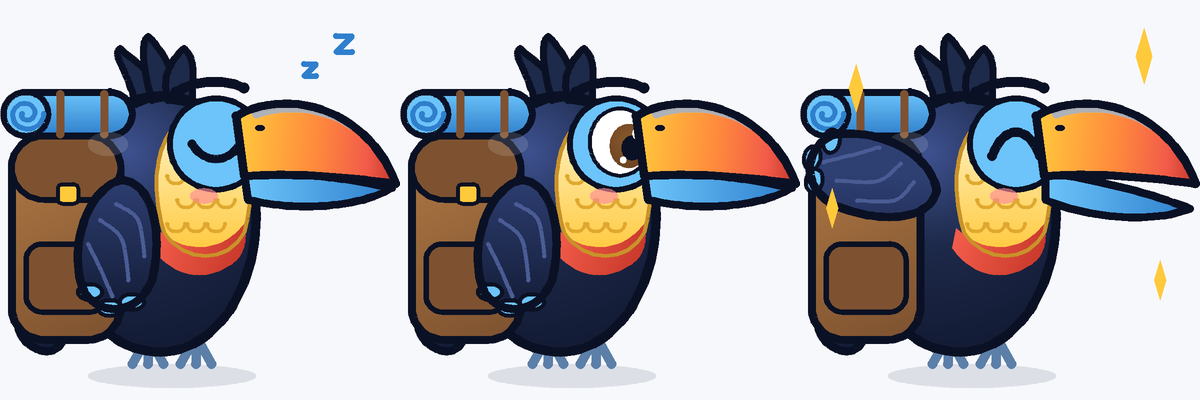
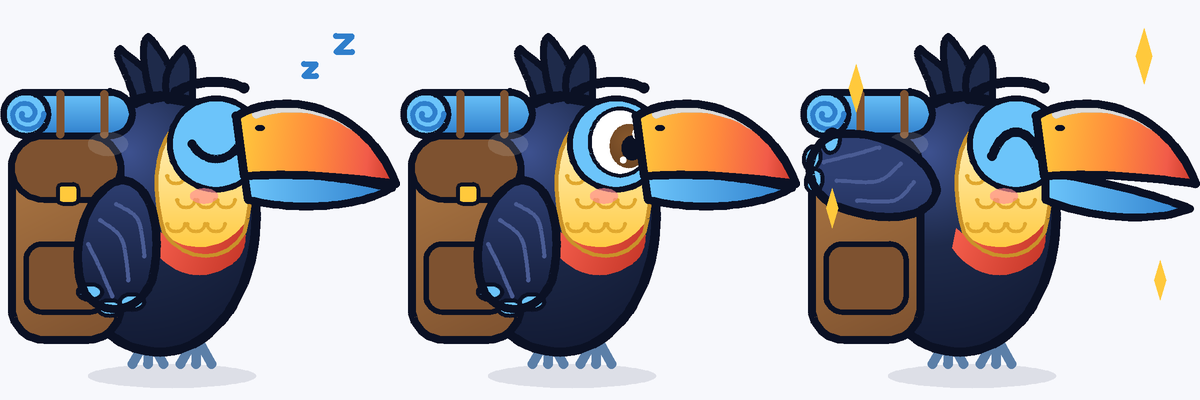
Source info sheets; hide Pico's tail behind the backpack
Tapping a source in onboarding or Settings opens a sheet saying what it
is, where to find it, what it costs and how Rumbo uses it (the tick or
switch still turns it on and off). Pico's tail no longer pokes out under
the travel pack.

Claude-Session: https://claude.ai/code/session_018UvJM2Go7pAH1fbyANkHrp

diff --git a/Rumbo/Features/Onboarding/SourceInfoSheet.swift b/Rumbo/Features/Onboarding/SourceInfoSheet.swift
@@ -1,0 +1,116 @@
+import RumboCore
+import SwiftUI
+
+extension SourceKind: @retroactive Identifiable {
+    public var id: String { rawValue }
+}
+
+/// What each source is, for someone who hasn't heard of it: what it is, where to find it, what it costs and
+/// how Rumbo uses it. Opened by tapping a source in onboarding or Settings → Sources.
+struct SourceInfoSheet: View {
+    let source: SourceKind
+
+    private struct Info {
+        let what: String
+        let whereToFind: String
+        let cost: String
+        let inRumbo: String
+        let links: [(title: String, url: URL)]
+    }
+
+    private var info: Info {
+        switch source {
+        case .dreamingSpanish:
+            Info(what: "A video library of Spanish made to be understood: thousands of videos where native speakers explain, chat and tell stories, using pictures and gestures at the easy levels. Every video has a difficulty from 0 to 100, and it counts your hours of listening. It's built on comprehensible input: you pick up Spanish by understanding lots of it.",
+                 whereToFind: "The Dreaming Spanish app (iPhone, Android, TV) and dreaming.com.",
+                 cost: "Many videos are free on YouTube; a subscription unlocks the full library and progress tracking.",
+                 inRumbo: "Your main listening: Rumbo plans videos at your difficulty range (e.g. 40–45), sometimes easier ones for fluency, asks what level you watched and charts it on Progress. Its hours count toward your level.",
+                 links: [("Open dreaming.com", URL(string: "https://www.dreaming.com/spanish")!)])
+        case .languageTransfer:
+            Info(what: "\"Complete Spanish\": a free audio course of 90 short tracks. A teacher guides a student to build sentences by thinking, not memorising, and you answer out loud before the student does. It gives you the skeleton of Spanish grammar from A2 to early B1.",
+                 whereToFind: "The free Language Transfer app (iPhone and Android) or languagetransfer.org.",
+                 cost: "Free (it's run on donations).",
+                 inRumbo: "Grammar & vocab: Rumbo plans the next track at its real length and asks which track you're up to when you log it.",
+                 links: [("Open languagetransfer.org", URL(string: "https://www.languagetransfer.org")!)])
+        case .extraEnEspanol:
+            Info(what: "A sitcom made for Spanish learners: 13 episodes about flatmates in Spain and an American friend who arrives knowing little Spanish. The speech is clear and slow at first, and it's funny.",
+                 whereToFind: "Free on YouTube: search \"Extra en Español\".",
+                 cost: "Free.",
+                 inRumbo: "Listening with subtitles: at A2 it's planned half an episode at a time, watched with Spanish subtitles, then a short scene to shadow (speak along with the actors). At B1, whole episodes for enjoyment.",
+                 links: [("Search on YouTube", URL(string: "https://www.youtube.com/results?search_query=Extra%20en%20Espa%C3%B1ol")!)])
+        case .duolingo:
+            Info(what: "The green-owl app of short, game-like lessons and a daily streak.",
+                 whereToFind: "The Duolingo app (iPhone and Android) and duolingo.com.",
+                 cost: "Free with ads; Super is optional.",
+                 inRumbo: "A short daily warm-up (about 3 minutes, never more than 5), mainly to keep your Duolingo streak alive. Rumbo keeps track of your section and unit. It fades out at B2. You can stop it being planned every day in Settings → Habit.",
+                 links: [("Open duolingo.com", URL(string: "https://www.duolingo.com")!)])
+        case .writing:
+            Info(what: "Short writing tasks inside Rumbo: guided writing with a prompt, and quick timed writes.",
+                 whereToFind: "Right here in Rumbo; there's nothing else to install.",
+                 cost: "Free. Feedback uses your own free Gemini or Groq key (Settings → Writing feedback), or a basic checker without one.",
+                 inRumbo: "Speaking & writing practice: Pico checks your writing, explains each mistake, and every correction becomes a card in the Mistakes tab to review later.",
+                 links: [])
+        case .tandem:
+            Info(what: "Language-exchange apps where you chat with native Spanish speakers who are learning your language: you help each other.",
+                 whereToFind: "The Tandem and HelloTalk apps (iPhone and Android).",
+                 cost: "Free to use; both have optional paid plans.",
+                 inRumbo: "Speaking & writing: Rumbo plans messages with your partner first, then voice notes, then short calls as your listening grows (you can switch these on early in Settings → Speaking). Save your partner's corrections to the Mistakes tab.",
+                 links: [("Open tandem.net", URL(string: "https://www.tandem.net")!), ("Open hellotalk.com", URL(string: "https://www.hellotalk.com")!)])
+        case .suggestedContent:
+            Info(what: "Real shows, series, podcasts and YouTube channels made for native speakers, picked for each level in Rumbo's Library.",
+                 whereToFind: "The Library tab: each suggestion says where to find it (YouTube, Netflix, Spotify, …).",
+                 cost: "Many are free; some need a streaming subscription.",
+                 inRumbo: "Listening once the courses run out, from B1, or if you don't use Dreaming Spanish. Mark one \"Watch this\" in the Library and the \"Watch or listen\" task points at it.",
+                 links: [])
+        }
+    }
+
+    var body: some View {
+        let info = info
+        ScrollView {
+            VStack(alignment: .leading, spacing: 18) {
+                HStack(spacing: 14) {
+                    Image(systemName: SourceCopy.symbol(source))
+                        .font(.title2.weight(.bold))
+                        .foregroundStyle(.white)
+                        .frame(width: 52, height: 52)
+                        .background(RoundedRectangle(cornerRadius: 14).fill(Palette.coral))
+                    VStack(alignment: .leading, spacing: 2) {
+                        Text(SourceCopy.name(source))
+                            .font(.rounded(.title2, weight: .black))
+                            .foregroundStyle(Palette.ink)
+                        Text(SourceCopy.role(source))
+                            .font(.rounded(.subheadline, weight: .semibold))
+                            .foregroundStyle(Palette.secondaryText)
+                    }
+                }
+                section("What it is", info.what, symbol: "questionmark.circle.fill")
+                section("Where to find it", info.whereToFind, symbol: "mappin.circle.fill")
+                section("Cost", info.cost, symbol: "creditcard.fill")
+                section("How Rumbo uses it", info.inRumbo, symbol: "sparkles")
+                ForEach(info.links.indices, id: \.self) { index in
+                    Link(destination: info.links[index].url) {
+                        Label(info.links[index].title, systemImage: "arrow.up.right.square.fill")
+                    }
+                    .buttonStyle(ChunkySecondaryButtonStyle())
+                }
+            }
+            .padding(24)
+        }
+        .presentationDetents([.medium, .large])
+        .presentationDragIndicator(.visible)
+        .presentationBackground(Palette.background)
+    }
+
+    private func section(_ title: String, _ text: String, symbol: String) -> some View {
+        VStack(alignment: .leading, spacing: 4) {
+            Label(title, systemImage: symbol)
+                .font(.rounded(.headline, weight: .black))
+                .foregroundStyle(Palette.ink)
+            Text(text)
+                .font(.rounded(.subheadline, weight: .medium))
+                .foregroundStyle(Palette.secondaryText)
+                .fixedSize(horizontal: false, vertical: true)
+        }
+    }
+}

diff --git a/Rumbo/Features/Onboarding/OnboardingView.swift b/Rumbo/Features/Onboarding/OnboardingView.swift
@@ -175,7 +175,7 @@ struct OnboardingView: View {
     private var sources: some View {
         VStack(alignment: .leading, spacing: 14) {
             StepTitle("Which do you use?")
-            Text("Switch off anything you don't use. Rumbo fills the time with the others.")
+            Text("Tick what you use; Rumbo fills the time with those. Not sure what one is? Tap it.")
                 .font(.rounded(.subheadline, weight: .medium))
                 .foregroundStyle(Palette.secondaryText)
             ForEach(SourceKind.allCases, id: \.self) { source in
@@ -390,32 +390,52 @@ struct SourceHeading: View {
 struct SourceToggleRow: View {
     let source: SourceKind
     @Binding var isOn: Bool
+    @State private var showingInfo = false
 
     var body: some View {
-        Button {
-            isOn.toggle()
-        } label: {
-            HStack(spacing: 14) {
-                Image(systemName: SourceCopy.symbol(source))
-                    .font(.title3.weight(.bold))
-                    .foregroundStyle(isOn ? .white : Palette.secondaryText)
-                    .frame(width: 44, height: 44)
-                    .background(RoundedRectangle(cornerRadius: 12).fill(isOn ? Palette.coral : Palette.lilac))
-                VStack(alignment: .leading, spacing: 2) {
-                    Text(SourceCopy.name(source)).font(.rounded(.headline, weight: .bold))
-                    Text(SourceCopy.role(source)).font(.rounded(.caption, weight: .medium)).foregroundStyle(Palette.secondaryText)
+        HStack(spacing: 14) {
+            // The source itself opens what it is; the tick on the right switches it on or off.
+            Button {
+                showingInfo = true
+            } label: {
+                HStack(spacing: 14) {
+                    Image(systemName: SourceCopy.symbol(source))
+                        .font(.title3.weight(.bold))
+                        .foregroundStyle(isOn ? .white : Palette.secondaryText)
+                        .frame(width: 44, height: 44)
+                        .background(RoundedRectangle(cornerRadius: 12).fill(isOn ? Palette.coral : Palette.lilac))
+                    VStack(alignment: .leading, spacing: 2) {
+                        HStack(spacing: 5) {
+                            Text(SourceCopy.name(source)).font(.rounded(.headline, weight: .bold))
+                            Image(systemName: "info.circle")
+                                .font(.rounded(.caption, weight: .bold))
+                                .foregroundStyle(Palette.secondaryText)
+                        }
+                        Text(SourceCopy.role(source)).font(.rounded(.caption, weight: .medium)).foregroundStyle(Palette.secondaryText)
+                    }
+                    .foregroundStyle(Palette.ink)
+                    Spacer(minLength: 0)
                 }
-                .foregroundStyle(Palette.ink)
-                Spacer()
-                Image(systemName: isOn ? "checkmark.circle.fill" : "circle")
-                    .font(.title2)
-                    .foregroundStyle(isOn ? Palette.leaf : Palette.secondaryText)
+                .contentShape(Rectangle())
             }
-            .padding(12)
-            .background(RoundedRectangle(cornerRadius: 16).fill(Palette.card))
+            .buttonStyle(.plain)
+            .accessibilityHint("Shows what \(SourceCopy.name(source)) is")
+            Button {
+                isOn.toggle()
+            } label: {
+                Image(systemName: isOn ? "checkmark.circle.fill" : "circle")
+                    .font(.title)
+                    .foregroundStyle(isOn ? Palette.leaf : Palette.secondaryText)
+                    .padding(4)
+                    .contentShape(Rectangle())
+            }
+            .buttonStyle(.plain)
+            .accessibilityLabel(isOn ? "Using \(SourceCopy.name(source))" : "Not using \(SourceCopy.name(source))")
         }
-        .buttonStyle(.plain)
+        .padding(12)
+        .background(RoundedRectangle(cornerRadius: 16).fill(Palette.card))
         .sensoryFeedback(.selection, trigger: isOn)
+        .sheet(isPresented: $showingInfo) { SourceInfoSheet(source: source) }
     }
 }
 

diff --git a/Rumbo/Features/Settings/SettingsView.swift b/Rumbo/Features/Settings/SettingsView.swift
@@ -10,6 +10,7 @@ struct SettingsView: View {
     @State private var importing = false
     @State private var pendingRestore: Data?
     @State private var message: String?
+    @State private var sourceInfo: SourceKind?
     /// "Gemini, then Groq", "Groq" or "Not set up".
     @State private var checkers = SettingsView.checkersText()
 
@@ -60,6 +61,7 @@ struct SettingsView: View {
             } message: {
                 Text("Everything in Rumbo now will be replaced by what's in the file.")
             }
+            .sheet(item: $sourceInfo) { SourceInfoSheet(source: $0) }
             .alert(message ?? "", isPresented: Binding(get: { message != nil }, set: { if !$0 { message = nil } })) {
                 Button("OK", role: .cancel) {}
             }
@@ -68,17 +70,37 @@ struct SettingsView: View {
 
     @ViewBuilder
     private func sections(_ profile: LearnerProfile) -> some View {
-        Section("Sources") {
+        Section {
             ForEach(SourceKind.allCases, id: \.self) { source in
-                Toggle(SourceCopy.name(source), isOn: binding(
-                    get: { profile.enabledSources.contains(source) },
-                    set: { on in
-                        var sources = profile.enabledSources
-                        if on { sources.insert(source) } else { sources.remove(source) }
-                        profile.enabledSources = sources
+                HStack {
+                    // The name opens what the source is; the switch turns it on or off.
+                    Button {
+                        sourceInfo = source
+                    } label: {
+                        HStack(spacing: 6) {
+                            Text(SourceCopy.name(source)).foregroundStyle(Palette.ink)
+                            Image(systemName: "info.circle")
+                                .font(.rounded(.caption, weight: .bold))
+                                .foregroundStyle(Palette.secondaryText)
+                        }
                     }
-                ))
+                    .buttonStyle(.borderless)
+                    Spacer()
+                    Toggle(SourceCopy.name(source), isOn: binding(
+                        get: { profile.enabledSources.contains(source) },
+                        set: { on in
+                            var sources = profile.enabledSources
+                            if on { sources.insert(source) } else { sources.remove(source) }
+                            profile.enabledSources = sources
+                        }
+                    ))
+                    .labelsHidden()
+                }
             }
+        } header: {
+            Text("Sources")
+        } footer: {
+            Text("Tap a source to see what it is, where to find it and how Rumbo uses it.")
         }
 
         Section {

diff --git a/Shared/Pico/PicoView.swift b/Shared/Pico/PicoView.swift
@@ -206,11 +206,13 @@ enum PicoDrawing {
             }
         }
 
-        // Tail
-        let tail = shape(p(14, 66), .l(p(26, 66)), .l(p(26, 86)), .c(p(26, 92), p(14, 92), p(14, 86)), .l(p(14, 66)))
-            .applying(rotation(38, around: p(20, 70)))
-        context.fill(tail, with: linear(p(20, 66), p(20, 92), [navy, navyLow]))
-        context.stroke(tail, with: .color(outline), style: line(2.2))
+        // Tail (hidden behind the travel backpack, where it would poke out below it)
+        if !wearsPack {
+            let tail = shape(p(14, 66), .l(p(26, 66)), .l(p(26, 86)), .c(p(26, 92), p(14, 92), p(14, 86)), .l(p(14, 66)))
+                .applying(rotation(38, around: p(20, 70)))
+            context.fill(tail, with: linear(p(20, 66), p(20, 92), [navy, navyLow]))
+            context.stroke(tail, with: .color(outline), style: line(2.2))
+        }
 
         // Body with a soft radial sheen
         let body = shape(p(40, 24), .c(p(56, 24), p(64, 38), p(64, 54)), .c(p(64, 72), p(54, 88), p(40, 88)),

diff --git a/docs/art/pico-render.py b/docs/art/pico-render.py
@@ -102,7 +102,8 @@ def draw(mood='idle', breathe=0.0, canvas=None, shadow=True, backpack=False):
             c.stroke([(fx, 84), (fx + dx * 1.3, 91)], FEET, 2.4, closed=False)
     # tail
     tail = rot(path((14, 66), ('l', (26, 66)), ('l', (26, 86)), ('c', (26, 92), (14, 92), (14, 86)), ('l', (14, 66))), 38, (20, 70))
-    c.linear(tail, (20, 66), (20, 92), [(0, NAVY), (1, NAVY_LO)]); c.stroke(tail, OUT, 2.2)
+    if not (backpack or mood == 'backpacker'):  # hidden behind the travel backpack
+        c.linear(tail, (20, 66), (20, 92), [(0, NAVY), (1, NAVY_LO)]); c.stroke(tail, OUT, 2.2)
     # body
     body = path((40, 24), ('c', (56, 24), (64, 38), (64, 54)), ('c', (64, 72), (54, 88), (40, 88)),
                 ('c', (26, 88), (16, 74), (16, 56)), ('c', (16, 38), (26, 24), (40, 24)))

diff --git a/docs/03-experience.md b/docs/03-experience.md
@@ -63,7 +63,7 @@ The first screen also offers "Restore from a backup". Without a backup, onboardi
 
 1. Welcome: Pico bobs in under a speech bubble introducing himself ("¡Hola! I'm Pico 👋 I'll turn the Spanish you already do into one simple plan each day, and cheer you on."), then "¿Rumbo a dónde?"
 2. Name (optional).
-3. Sources: toggle the ones you use (all on by default). The Tandem row is named "Tandem/HelloTalk partner" and reads "I have a language exchange partner". Throughout the app, Tandem tasks and wording say "Tandem/HelloTalk" (e.g. "Tandem/HelloTalk message"), since either app works for these exchanges.
+3. Sources: tick the ones you use (all on by default). Tapping a source's name or icon (it has a small ⓘ) opens an info sheet (`SourceInfoSheet`): what it is, where to find it (with a link), what it costs and how Rumbo uses it, for anyone who hasn't heard of it. The tick on the right turns it on or off. Settings → Sources works the same way: the name opens the sheet, the switch is separate. The Tandem row is named "Tandem/HelloTalk partner" and reads "I have a language exchange partner". Throughout the app, Tandem tasks and wording say "Tandem/HelloTalk" (e.g. "Tandem/HelloTalk message"), since either app works for these exchanges.
 4. Progress per source, each on its own card (only for enabled sources):
    - Dreaming Spanish: total hours and the difficulty you're watching, as a 5-point range ("40–45") that the stepper slides by 1
    - Language Transfer: last finished track (0–90)
@@ -92,7 +92,7 @@ Implemented in `Rumbo/Features/Path/PathView.swift`, laid out by `PathLayout` in
 
 - **One node per calendar day** since onboarding, labelled with its weekday in Spanish and its date ("Lun 26", "Mié 28", and "Hoy" for today; the day summary reads "Lunes 26 de octubre"); 7 nodes per unit, each called a week ("Semana N", with its dates; a date outside the current year includes the year, e.g. "29 Dec 2025 – 4 Jan", in the phone's language). Weeks line up with the weekly goal's week: they start on Monday, or Sunday if chosen in Settings, so the first week starts on that day before onboarding; its days before the start date show as faint dashes and can't be opened, and don't count against the week.
 - **This week's banner** also has a subtle weekly-goal bar under its dates: a thin translucent line with "85 / 150 min" in small type (the same minutes as the weekly goal elsewhere).
-- **Travel mode on the path:** while it's on (it stays on across days until switched off), this week's banner has a small sun-yellow "🎒 Travel mode" tag (white on a gold, finished week), and Pico carries a big backpacking pack with a rolled sleeping mat, on top of whatever mood he's in (sleepy, cheering…). Widgets show the backpacker look (pack and hat).
+- **Travel mode on the path:** while it's on (it stays on across days until switched off), this week's banner has a small sun-yellow "🎒 Travel mode" tag (white on a gold, finished week), and Pico carries a big backpacking pack with a rolled blue yoga mat on top (no shoulder strap; his tail is hidden behind it; preview in `docs/art/pico-backpack-preview.png`), on top of whatever mood he's in (sleepy, cheering…). Widgets show the backpacker look (pack and hat).
 - **Week banners:** a week that's over says "Semana completa" with a tick, whatever happened in it. It turns gold ("¡Semana completa!" with a seal) when every day had practice or a streak freeze: green, yellow and snowflake days all count; only a missed (grey moon) day stops it. The current week can turn gold once its last day is finished. Day complete (its plan finished, or ≥ 10 minutes logged with no plan) = green tick; partly done = yellow; missed = grey moon; missed but saved by a streak freeze = ice-blue snowflake; upcoming = locked and faded.
 - **Back to today:** scrolled down past the current week, a coral rounded-square ↑ button appears in the bottom-right corner; scrolled up above it, a ↓ button. Tapping it glides back to today, even mid-flick: SwiftUI ignores a scroll-to while a flick is still coasting, so Rumbo first stops the coasting through the underlying UIKit scroll view (setting its current offset without animation), then glides back on the next frame. If that scroll view can't be found, it jumps straight to today instead. It goes away when the current week is back in view.
 - **Time to goal:** small text at the end of each unit: "Time to goal (B2.1): 712 hours", the training hours still needed for the goal's level (`goalBand`) as of the unit's last day. Finished units use what was logged by their last day; today's unit and the ones ahead are projected to their last day at the forecast pace and say "about" (the same pace as "Where you're heading"). For today's unit and those ahead, a second line: "At your current pace, that's 140 more weeks" (the hours left ÷ the forecast weekly hours, rounded up); finished units don't have it. Both lines are small, light and faded, a footnote to the unit. Once the goal level's hours are reached: "Goal (B2.1) reached". Logic: `AppModel.GoalCountdown`.
